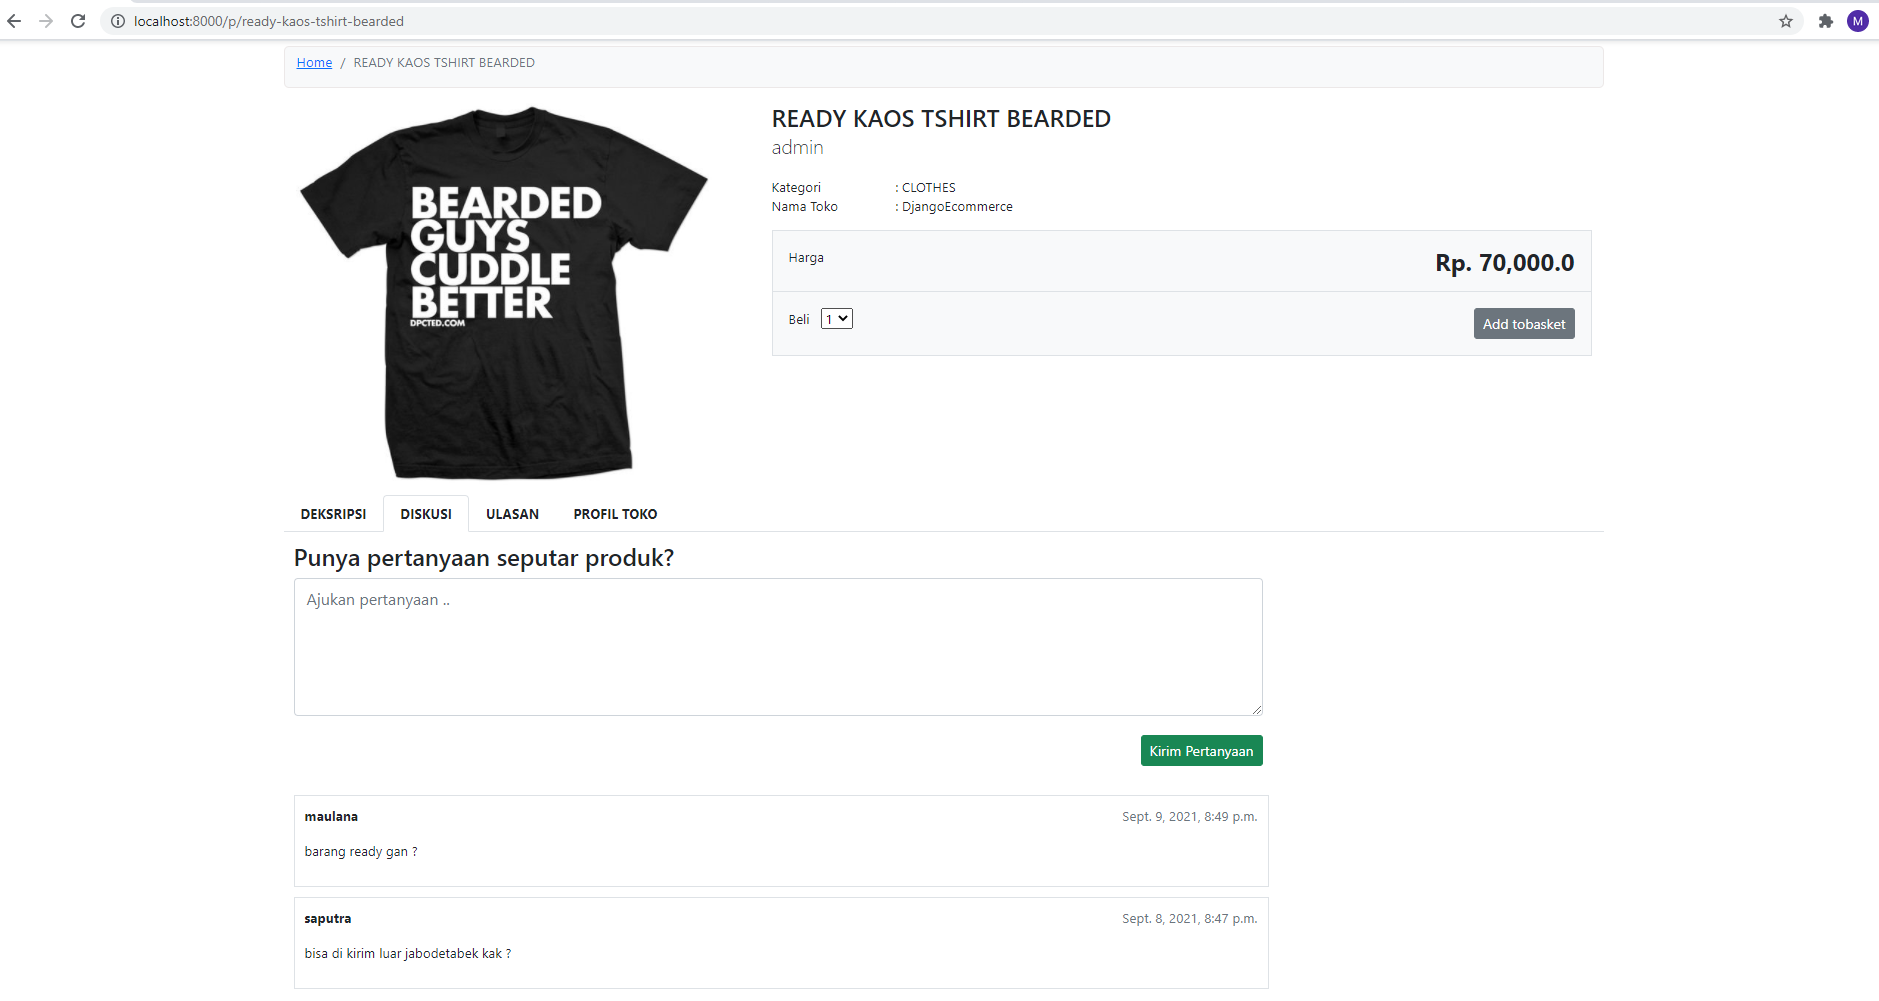
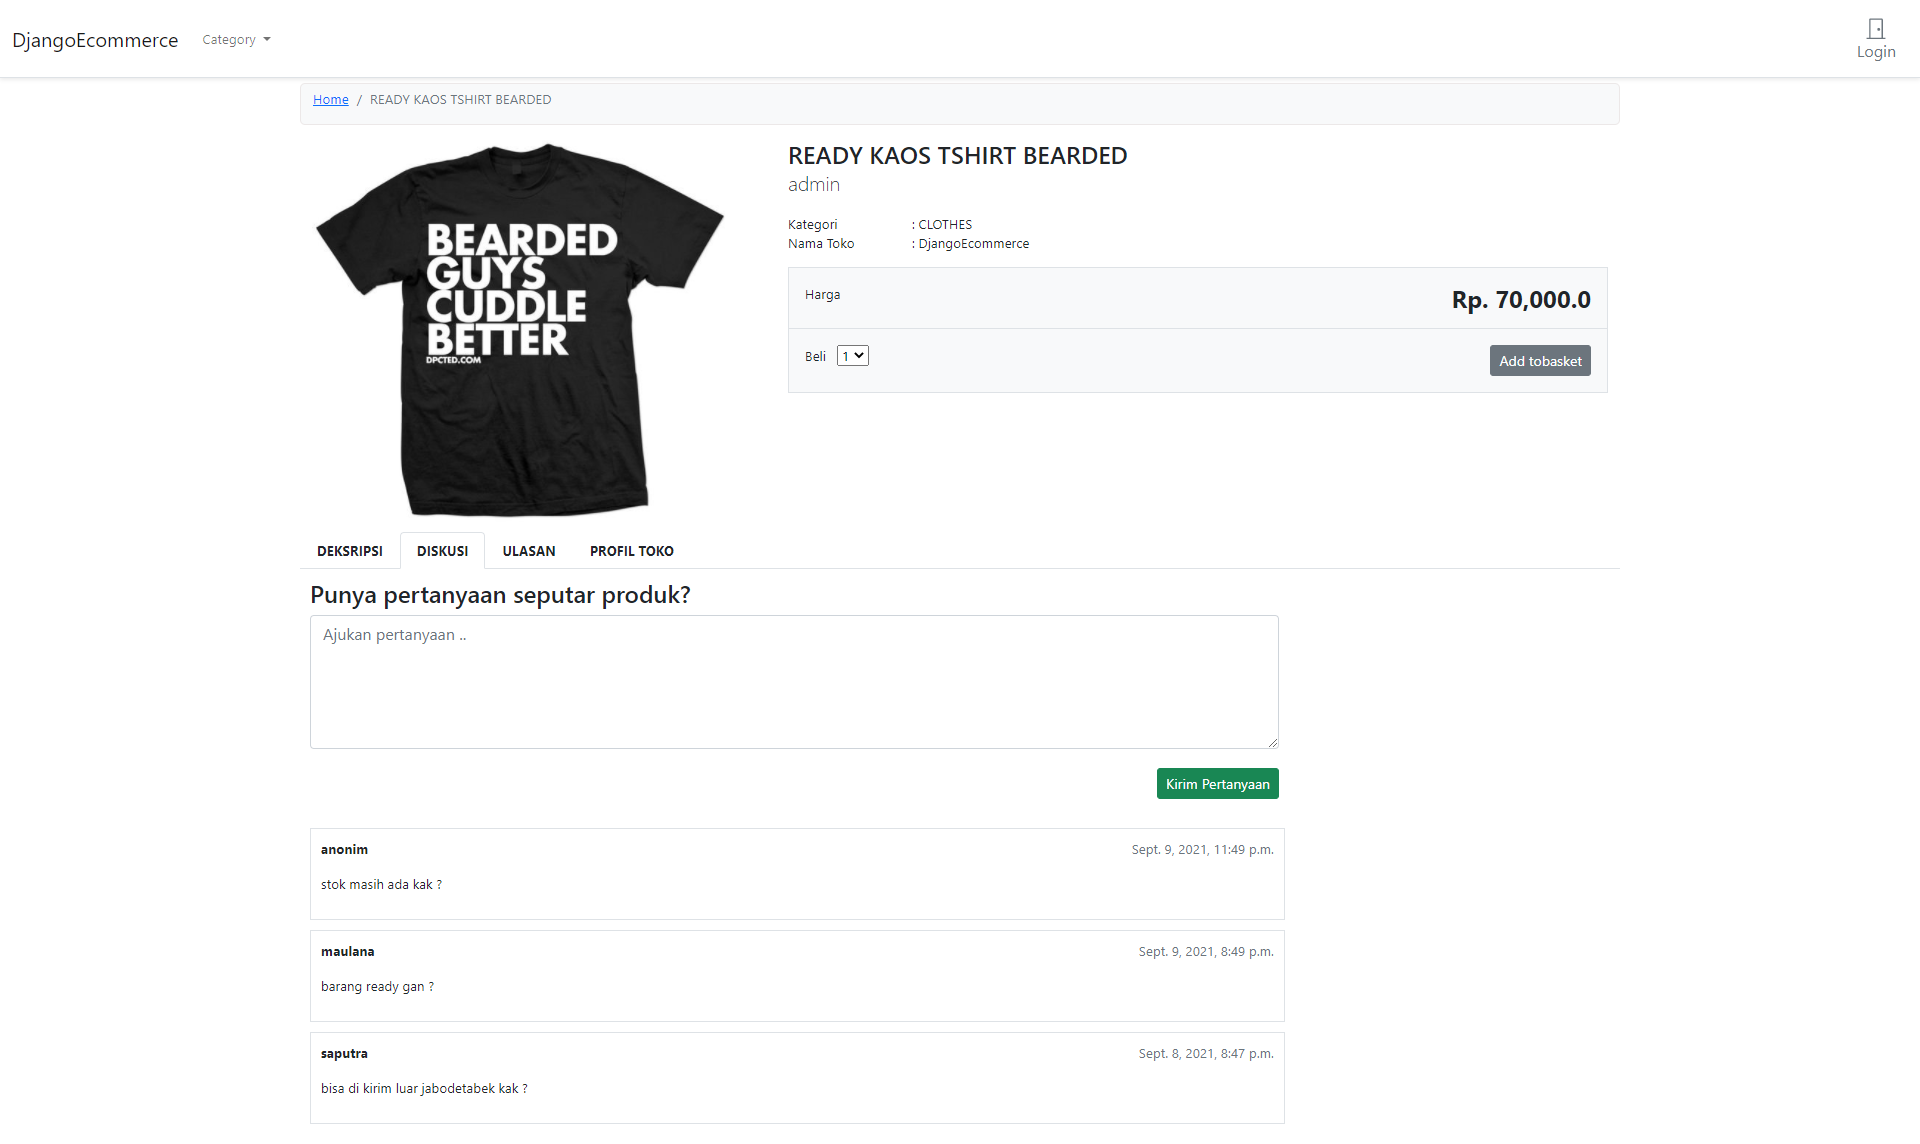
update for comment not login

diff --git a/templates/store/products/detail.html b/templates/store/products/detail.html
@@ -98,7 +98,11 @@
                              <div class="col-sm-12 col-lg-9 border" style="padding: 10px; margin: 10px 0 10px 0;">
                                  <div class="d-flex bd-highlight">
                                      <div class="flex-grow-1 bd-highlight">
-                                         <span class="fw-bold">{{ comment.user.user_name }}</span>
+                                         {% if comment.user == None %}
+                                             <span class="fw-bold">anonim</span>
+                                         {% else %}
+                                             <span class="fw-bold">{{ comment.user.user_name }}</span>
+                                         {% endif %}
                                      </div>
                                      <div class="bd-highlight">
                                          <span class="text-muted font-weight-normal">{{ comment.created }}</span>

diff --git a/store/views.py b/store/views.py
@@ -19,16 +19,14 @@ def product_detail(request, slug):
         
         commentForm = CommentForm(data=request.POST)
         
-        if request.user.is_anonymous == True:
-            commentForm.add_error(None, 'You must to login first!')
-        else:
-            if commentForm.is_valid():
-                comment = commentForm.save(commit=False)
-                comment.product = product
-                comment.user = request.user
-                
-                comment.save()
-                commentForm = CommentForm()
+        if commentForm.is_valid():
+            comment = commentForm.save(commit=False)
+            comment.product = product
+            comment.user = None if request.user.is_anonymous == True else request.user
+            
+            comment.save()
+            
+            commentForm = CommentForm()
     else:
         commentForm = CommentForm()
     

diff --git a/store/migrations/0002_comment.py b/store/migrations/0002_comment.py
@@ -1,4 +1,4 @@
-# Generated by Django 3.1.4 on 2021-09-10 13:05
+# Generated by Django 3.1.4 on 2021-09-13 10:29
 
 from django.conf import settings
 from django.db import migrations, models
@@ -20,7 +20,7 @@ class Migration(migrations.Migration):
                 ('body', models.TextField(blank=True, max_length=500)),
                 ('created', models.DateTimeField(auto_now_add=True)),
                 ('product', models.ForeignKey(on_delete=django.db.models.deletion.CASCADE, related_name='comments', to='store.product')),
-                ('user', models.ForeignKey(on_delete=django.db.models.deletion.CASCADE, to=settings.AUTH_USER_MODEL)),
+                ('user', models.ForeignKey(blank=True, null=True, on_delete=django.db.models.deletion.CASCADE, to=settings.AUTH_USER_MODEL)),
             ],
             options={
                 'verbose_name_plural': 'comments',

diff --git a/store/models.py b/store/models.py
@@ -51,7 +51,7 @@ class Product(models.Model):
         return self.title
 
 class Comment(models.Model):
-    user = models.ForeignKey(settings.AUTH_USER_MODEL, on_delete=models.CASCADE)
+    user = models.ForeignKey(settings.AUTH_USER_MODEL, on_delete=models.CASCADE, blank=True, null=True)
     product = models.ForeignKey(Product, on_delete=models.CASCADE, related_name='comments')
     
     body = models.TextField(max_length=500, blank=True)
